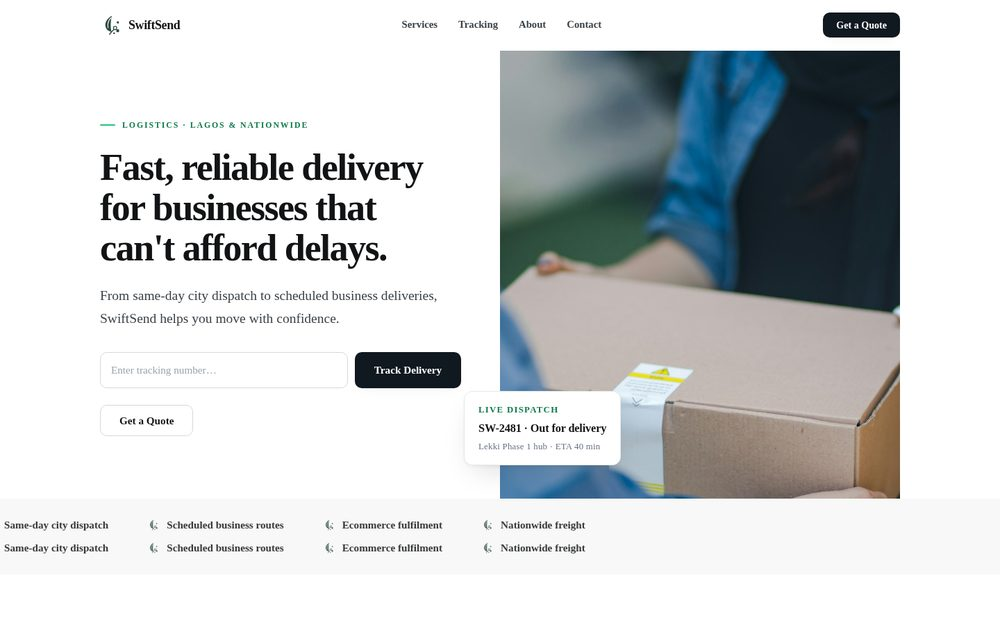
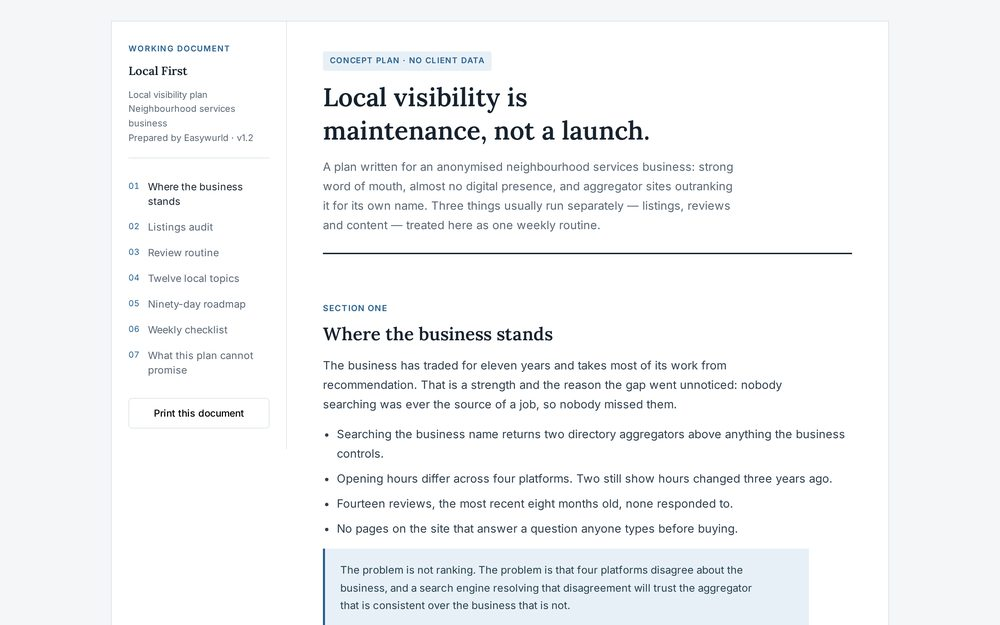
Self-host Local First as a printable working document

diff --git a/client/public/demo/local-first-visibility/index.html b/client/public/demo/local-first-visibility/index.html
@@ -1,0 +1,359 @@
+<!doctype html>
+<html lang="en">
+<head>
+<meta charset="utf-8">
+<meta name="viewport" content="width=device-width,initial-scale=1">
+<title>Local First — a 90-day local visibility plan for a neighbourhood business</title>
+<meta name="description" content="A working document: listings audit, review routine, twelve local content topics and a weekly checklist for a business that is invisible in local search. Concept plan by Easywurld.">
+<meta property="og:title" content="Local First — local visibility plan"><meta property="og:type" content="website">
+<link rel="preconnect" href="https://fonts.googleapis.com"><link rel="preconnect" href="https://fonts.gstatic.com" crossorigin>
+<link href="https://fonts.googleapis.com/css2?family=Lora:wght@500;600&family=Inter:wght@400;500;600&display=swap" rel="stylesheet">
+<style>
+:root{--bg:#F4F6F8;--pap:#FFFFFF;--ink:#16222E;--mu:#5B6875;--blu:#245F8F;--bl:#E8F0F7;--line:#DCE3E9;--ok:#226B4A;--okb:#E2F1E9;--bad:#8E3B2A;--badb:#F8E7E3;--warn:#8A5B12;--warnb:#FAEFDC}
+*{box-sizing:border-box}
+html{scroll-behavior:smooth}
+body{margin:0;background:var(--bg);color:var(--ink);font:400 16.5px/1.7 'Inter',system-ui,sans-serif;-webkit-font-smoothing:antialiased}
+a{color:var(--blu)}
+h1,h2,h3,h4{font-family:'Lora',Georgia,serif;font-weight:600;line-height:1.3;margin:0}
+:where(a,button,input,select,summary,[tabindex]):focus-visible{outline:2px solid var(--blu);outline-offset:3px}
+.skip{position:absolute;left:-9999px;background:var(--ink);color:#fff;padding:12px 18px;z-index:300}
+.skip:focus{left:8px;top:8px}
+
+/* document shell */
+.doc{max-width:1120px;margin:30px auto 0;background:var(--pap);border:1px solid var(--line);display:grid;grid-template-columns:252px 1fr}
+@media(max-width:900px){.doc{grid-template-columns:1fr;margin-top:0;border-left:0;border-right:0}}
+
+/* sidebar */
+.side{border-right:1px solid var(--line);padding:30px 24px;position:sticky;top:0;align-self:start;max-height:100vh;overflow-y:auto}
+@media(max-width:900px){.side{position:static;max-height:none;border-right:0;border-bottom:1px solid var(--line)}}
+.docid{font-size:11.5px;letter-spacing:.1em;text-transform:uppercase;color:var(--blu);font-weight:600}
+.side h2{font-size:17px;margin:10px 0 4px}
+.side .meta{font-size:13px;color:var(--mu);line-height:1.6;margin-bottom:22px;padding-bottom:18px;border-bottom:1px solid var(--line)}
+.toc{list-style:none;margin:0;padding:0;counter-reset:t}
+.toc li{counter-increment:t}
+.toc a{display:block;padding:8px 0 8px 28px;position:relative;font-size:14.5px;text-decoration:none;color:var(--mu);line-height:1.45}
+.toc a:before{content:counter(t,decimal-leading-zero);position:absolute;left:0;font-size:12px;color:var(--blu);font-variant-numeric:tabular-nums;top:9px}
+.toc a:hover,.toc a.on{color:var(--ink)}
+.prt{margin-top:22px;width:100%;min-height:44px;border:1px solid var(--line);background:var(--pap);border-radius:5px;font:500 14px 'Inter',sans-serif;cursor:pointer}
+.prt:hover{border-color:var(--blu);color:var(--blu)}
+
+/* main */
+.body{padding:40px 52px 60px;min-width:0}
+@media(max-width:900px){.body{padding:30px 24px 44px}}
+.title{padding-bottom:26px;border-bottom:2px solid var(--ink);margin-bottom:34px}
+.title h1{font-size:clamp(27px,3.6vw,37px);max-width:21ch}
+.title p{color:var(--mu);margin:14px 0 0;max-width:60ch}
+.badge{display:inline-block;background:var(--bl);color:var(--blu);font-size:11.5px;letter-spacing:.08em;text-transform:uppercase;font-weight:600;padding:4px 10px;border-radius:3px;margin-bottom:14px}
+
+sect,section{display:block}
+section{padding:34px 0;border-bottom:1px solid var(--line)}
+section:last-of-type{border-bottom:0}
+.sn{font-size:12px;letter-spacing:.09em;text-transform:uppercase;color:var(--blu);font-weight:600;margin-bottom:10px}
+section h2{font-size:clamp(21px,2.5vw,26px);margin-bottom:14px}
+section h3{font-size:17.5px;margin:26px 0 10px}
+section p{margin:0 0 15px;max-width:68ch;color:#30404E}
+section p.m{color:var(--mu)}
+ul.plain{margin:0 0 15px;padding-left:20px;color:#30404E}
+ul.plain li{margin-bottom:8px}
+
+/* audit table */
+.tw{overflow-x:auto;border:1px solid var(--line);margin:6px 0 10px}
+table{border-collapse:collapse;width:100%;min-width:600px;font-size:14.5px}
+th,td{text-align:left;padding:12px 15px;border-bottom:1px solid #EDF1F4;vertical-align:top}
+th{font-size:11.5px;letter-spacing:.06em;text-transform:uppercase;color:var(--mu);background:#F8FAFB;font-weight:600}
+tr:last-child td{border-bottom:0}
+.pill{display:inline-block;padding:3px 9px;border-radius:3px;font-size:12.5px;font-weight:600;white-space:nowrap}
+.pill.bad{background:var(--badb);color:var(--bad)}
+.pill.warn{background:var(--warnb);color:var(--warn)}
+.pill.ok{background:var(--okb);color:var(--ok)}
+.fixb{min-height:34px;padding:0 12px;border:1px solid var(--line);background:var(--pap);border-radius:4px;font:500 13px 'Inter',sans-serif;cursor:pointer;white-space:nowrap}
+.fixb:hover{border-color:var(--blu);color:var(--blu)}
+.fixb[disabled]{opacity:.4;cursor:default}
+.prog{display:flex;align-items:center;gap:12px;margin:14px 0 4px;font-size:14px;color:var(--mu);flex-wrap:wrap}
+.pbar{flex:1;min-width:160px;height:7px;background:#E7ECF0;border-radius:4px;overflow:hidden}
+.pbar i{display:block;height:100%;width:0;background:var(--blu);transition:width .4s ease}
+
+/* roadmap */
+.rm{border:1px solid var(--line)}
+.rmi{border-bottom:1px solid var(--line)}
+.rmi:last-child{border-bottom:0}
+.rmh{width:100%;text-align:left;background:var(--pap);border:0;padding:16px 18px;display:flex;align-items:center;gap:14px;cursor:pointer;min-height:56px;font-family:'Inter',sans-serif}
+.rmh:hover{background:#F8FAFB}
+.rmh .ph{font-family:'Lora',serif;font-size:16.5px;font-weight:600}
+.rmh .dr{font-size:13px;color:var(--mu);margin-left:auto;padding-right:8px}
+.rmh .ch{width:11px;height:11px;border-right:2px solid var(--blu);border-bottom:2px solid var(--blu);transform:rotate(45deg);transition:transform .2s;flex:0 0 auto;margin-top:-4px}
+.rmh[aria-expanded="true"] .ch{transform:rotate(-135deg);margin-top:3px}
+.rmb{padding:2px 18px 20px;display:none}
+.rmb.open{display:block}
+.rmb ol{margin:0;padding-left:20px;color:#30404E}
+.rmb li{margin-bottom:9px;font-size:15px}
+.rmb .own{display:inline-block;margin-left:6px;font-size:12px;color:var(--mu);background:#F1F5F8;padding:1px 7px;border-radius:3px}
+
+/* keyword map */
+.kw{border:1px solid var(--line);overflow-x:auto}
+.kwrow{display:grid;grid-template-columns:1.6fr 1fr 1.4fr;gap:0;min-width:560px}
+.kwrow>div{padding:12px 15px;border-bottom:1px solid #EDF1F4;font-size:14.5px}
+.kwrow.h>div{background:#F8FAFB;font-size:11.5px;letter-spacing:.06em;text-transform:uppercase;color:var(--mu);font-weight:600}
+.kwrow>div:nth-child(2),.kwrow>div:nth-child(3){color:var(--mu)}
+.kwrow:last-child>div{border-bottom:0}
+
+/* checklist */
+.chk{border:1px solid var(--line);padding:6px 20px 16px;background:#FCFDFE}
+.chk label{display:flex;gap:12px;align-items:flex-start;padding:12px 0;border-bottom:1px solid #EDF1F4;font-size:15px;cursor:pointer;min-height:44px}
+.chk label:last-child{border-bottom:0}
+.chk input{width:20px;height:20px;margin-top:2px;flex:0 0 auto;accent-color:var(--blu)}
+.chk small{display:block;color:var(--mu);font-size:13px;margin-top:2px}
+.chk input:checked+span{color:var(--mu);text-decoration:line-through}
+.dn{font-size:14px;color:var(--mu);padding-top:12px}
+
+.callout{background:var(--bl);border-left:3px solid var(--blu);padding:18px 22px;margin:4px 0 16px;max-width:70ch}
+.callout p{margin:0;font-size:15px;color:#24404F}
+.honest{border:1px solid var(--line);background:#FBFCFD;padding:22px 24px;max-width:72ch}
+.honest p{margin:0 0 12px}
+.honest p:last-child{margin:0}
+
+.endcta{padding:34px 0 0}
+.btn{display:inline-flex;align-items:center;min-height:46px;padding:0 22px;border-radius:5px;text-decoration:none;font-size:15px;font-weight:500;border:1px solid var(--blu);margin:0 10px 10px 0}
+.btn.p{background:var(--blu);color:#fff}
+.btn.s{background:transparent;color:var(--blu)}
+
+.note{background:var(--ink);color:#A8BAC8;font-size:13.5px;line-height:1.65;padding:18px 24px;text-align:center;margin-top:30px}
+.note a{color:#fff}
+@media(prefers-reduced-motion:reduce){*{animation:none!important;transition:none!important}}
+@media print{
+  body{background:#fff}
+  .side,.prt,.note,.endcta{display:none}
+  .doc{grid-template-columns:1fr;border:0;margin:0;max-width:none}
+  .body{padding:0}
+  section{page-break-inside:avoid}
+  .rmb{display:block!important}
+}
+</style>
+</head>
+<body>
+<a class="skip" href="#body">Skip to the document</a>
+
+<div class="doc">
+  <aside class="side">
+    <div class="docid">Working document</div>
+    <h2>Local First</h2>
+    <p class="meta">Local visibility plan<br>Neighbourhood services business<br>Prepared by Easywurld · v1.2</p>
+    <nav aria-label="Contents"><ol class="toc" id="toc">
+      <li><a href="#s1">Where the business stands</a></li>
+      <li><a href="#s2">Listings audit</a></li>
+      <li><a href="#s3">Review routine</a></li>
+      <li><a href="#s4">Twelve local topics</a></li>
+      <li><a href="#s5">Ninety-day roadmap</a></li>
+      <li><a href="#s6">Weekly checklist</a></li>
+      <li><a href="#s7">What this plan cannot promise</a></li>
+    </ol></nav>
+    <button class="prt" id="prt">Print this document</button>
+  </aside>
+
+  <div class="body" id="body">
+    <div class="title">
+      <span class="badge">Concept plan · no client data</span>
+      <h1>Local visibility is maintenance, not a launch.</h1>
+      <p>A plan written for an anonymised neighbourhood services business: strong word of mouth, almost no digital presence, and aggregator sites outranking it for its own name. Three things usually run separately — listings, reviews and content — treated here as one weekly routine.</p>
+    </div>
+
+    <section id="s1">
+      <div class="sn">Section one</div>
+      <h2>Where the business stands</h2>
+      <p>The business has traded for eleven years and takes most of its work from recommendation. That is a strength and the reason the gap went unnoticed: nobody searching was ever the source of a job, so nobody missed them.</p>
+      <ul class="plain">
+        <li>Searching the business name returns two directory aggregators above anything the business controls.</li>
+        <li>Opening hours differ across four platforms. Two still show hours changed three years ago.</li>
+        <li>Fourteen reviews, the most recent eight months old, none responded to.</li>
+        <li>No pages on the site that answer a question anyone types before buying.</li>
+      </ul>
+      <div class="callout"><p>The problem is not ranking. The problem is that four platforms disagree about the business, and a search engine resolving that disagreement will trust the aggregator that is consistent over the business that is not.</p></div>
+    </section>
+
+    <section id="s2">
+      <div class="sn">Section two</div>
+      <h2>Listings audit</h2>
+      <p class="m">Every platform where the business appears, what is wrong, and who fixes it. Mark an item corrected to see the consistency score move — this is a working tracker, not a report.</p>
+      <div class="tw"><table>
+        <thead><tr><th>Platform</th><th>Problem found</th><th>State</th><th>Action</th></tr></thead>
+        <tbody id="audit">
+          <tr data-row><td>Business profile</td><td>Closing time wrong on Saturdays. No category set. No photos since 2023.</td><td><span class="pill bad">Incorrect</span></td><td><button class="fixb">Mark corrected</button></td></tr>
+          <tr data-row><td>Facebook page</td><td>Old phone number. Address missing the unit number.</td><td><span class="pill bad">Incorrect</span></td><td><button class="fixb">Mark corrected</button></td></tr>
+          <tr data-row><td>Directory A</td><td>Duplicate entry created by a customer in 2019, still live.</td><td><span class="pill warn">Duplicate</span></td><td><button class="fixb">Mark corrected</button></td></tr>
+          <tr data-row><td>Directory B</td><td>Correct details but no description and no link to the site.</td><td><span class="pill warn">Thin</span></td><td><button class="fixb">Mark corrected</button></td></tr>
+          <tr data-row><td>Own website footer</td><td>Hours written as an image, so nothing can read them.</td><td><span class="pill bad">Incorrect</span></td><td><button class="fixb">Mark corrected</button></td></tr>
+        </tbody>
+      </table></div>
+      <div class="prog">
+        <span>Consistency</span>
+        <span class="pbar"><i id="pfill"></i></span>
+        <span id="ptxt">0 of 5 corrected</span>
+      </div>
+      <p class="m">Name, address, phone and hours must read identically everywhere, down to the abbreviation of the street type. That is the whole standard.</p>
+    </section>
+
+    <section id="s3">
+      <div class="sn">Section three</div>
+      <h2>Review routine</h2>
+      <p>Reviews stopped because asking was left to whoever remembered. The fix is to attach the request to an event that already happens: the job being finished and paid for.</p>
+      <h3>The loop</h3>
+      <ol class="plain">
+        <li>Job completed and invoice settled.</li>
+        <li>Same day, a short message: one sentence of thanks, one direct link, no form.</li>
+        <li>Every review answered within three working days, including the poor ones.</li>
+        <li>One sentence from a recent review added to the site each month.</li>
+      </ol>
+      <div class="callout"><p>Target the rate, not the total. Roughly one in six people asked will write something, so a business completing twelve jobs a week should expect about two reviews a week — not forty next Tuesday.</p></div>
+      <h3>Answering a bad one</h3>
+      <p>Acknowledge the specific thing, say what changed, offer to continue off the platform. No defence of the company and no apology template. Future customers read the reply more carefully than the complaint.</p>
+    </section>
+
+    <section id="s4">
+      <div class="sn">Section four</div>
+      <h2>Twelve local topics</h2>
+      <p class="m">Each one is a question a person in the area types before they buy, with the intent behind it noted. One page each, published at one a week for twelve weeks.</p>
+      <div class="kw">
+        <div class="kwrow h"><div>Topic / page</div><div>Intent</div><div>Why this one</div></div>
+        <div class="kwrow"><div>What a call-out costs in this area</div><div>Commercial</div><div>Price is the first question and nobody local publishes it</div></div>
+        <div class="kwrow"><div>Emergency or can it wait until Monday</div><div>Informational</div><div>Captures the panic search at 9pm</div></div>
+        <div class="kwrow"><div>Which streets we cover same-day</div><div>Local</div><div>Names the actual neighbourhoods, which aggregators cannot</div></div>
+        <div class="kwrow"><div>How to describe the fault on the phone</div><div>Informational</div><div>Shortens the call and demonstrates competence</div></div>
+        <div class="kwrow"><div>What we check before quoting</div><div>Trust</div><div>Answers the fear of a quote changing on the day</div></div>
+        <div class="kwrow"><div>Older properties in the area and what goes wrong</div><div>Local</div><div>Specific to the housing stock nearby</div></div>
+        <div class="kwrow"><div>Landlord obligations, plainly</div><div>Commercial</div><div>Reaches a repeat-booking audience</div></div>
+        <div class="kwrow"><div>What we will not take on</div><div>Trust</div><div>Saves both sides a wasted visit</div></div>
+        <div class="kwrow"><div>Parking and access on the narrow streets</div><div>Local</div><div>Nothing else on the web answers it</div></div>
+        <div class="kwrow"><div>Signs you are being overcharged</div><div>Informational</div><div>High share rate within local groups</div></div>
+        <div class="kwrow"><div>Seasonal: what fails first in the rains</div><div>Seasonal</div><div>Publish six weeks ahead of the season</div></div>
+        <div class="kwrow"><div>How soon we can usually get to you</div><div>Commercial</div><div>Honest answer beats "fast response"</div></div>
+      </div>
+    </section>
+
+    <section id="s5">
+      <div class="sn">Section five</div>
+      <h2>Ninety-day roadmap</h2>
+      <p class="m">Three phases. Open each one for the tasks and who owns them. Nothing in month one requires writing anything.</p>
+      <div class="rm" id="rm">
+        <div class="rmi">
+          <button class="rmh" aria-expanded="true" aria-controls="p1"><span class="ch"></span><span class="ph">Days 1–30 · Correct what exists</span><span class="dr">6 tasks</span></button>
+          <div class="rmb open" id="p1"><ol>
+            <li>Claim or recover every listing found in the audit.<span class="own">Owner</span></li>
+            <li>Write one canonical set of details and apply it everywhere.<span class="own">Easywurld</span></li>
+            <li>Remove the duplicate directory entry.<span class="own">Easywurld</span></li>
+            <li>Replace the image of opening hours with real text.<span class="own">Easywurld</span></li>
+            <li>Add twelve current photographs of actual work.<span class="own">Owner</span></li>
+            <li>Reply to all fourteen existing reviews.<span class="own">Owner</span></li>
+          </ol></div>
+        </div>
+        <div class="rmi">
+          <button class="rmh" aria-expanded="false" aria-controls="p2"><span class="ch"></span><span class="ph">Days 31–60 · Start the loops</span><span class="dr">5 tasks</span></button>
+          <div class="rmb" id="p2"><ol>
+            <li>Attach the review request to job completion and test it on ten jobs.<span class="own">Owner</span></li>
+            <li>Publish the first four topic pages.<span class="own">Easywurld</span></li>
+            <li>Add a weekly post to the business profile — one photo, two sentences.<span class="own">Owner</span></li>
+            <li>Record the questions customers ask on the phone for later topics.<span class="own">Owner</span></li>
+            <li>Check the listing details have not reverted.<span class="own">Easywurld</span></li>
+          </ol></div>
+        </div>
+        <div class="rmi">
+          <button class="rmh" aria-expanded="false" aria-controls="p3"><span class="ch"></span><span class="ph">Days 61–90 · Make it routine</span><span class="dr">5 tasks</span></button>
+          <div class="rmb" id="p3"><ol>
+            <li>Publish topic pages five to twelve.<span class="own">Easywurld</span></li>
+            <li>Hand the weekly checklist to whoever will actually run it.<span class="own">Both</span></li>
+            <li>Review which pages brought calls and write two more like them.<span class="own">Easywurld</span></li>
+            <li>Set a standing monthly reminder to re-check listings.<span class="own">Owner</span></li>
+            <li>Decide what happens in month four, in writing.<span class="own">Both</span></li>
+          </ol></div>
+        </div>
+      </div>
+    </section>
+
+    <section id="s6">
+      <div class="sn">Section six</div>
+      <h2>Weekly checklist</h2>
+      <p class="m">Twenty minutes, once a week, by someone who is not a marketer. If a task needs explaining it does not belong on this list. Tick them off — this resets when the page reloads.</p>
+      <div class="chk" id="chk">
+        <label><input type="checkbox"><span>Answer every new review<small>Three working days maximum, including the poor ones</small></span></label>
+        <label><input type="checkbox"><span>Post once to the business profile<small>One photograph of real work and two sentences</small></span></label>
+        <label><input type="checkbox"><span>Ask the week's completed jobs for a review<small>Same message every time, sent the day the invoice clears</small></span></label>
+        <label><input type="checkbox"><span>Check the business profile for edits you did not make<small>Members of the public can suggest changes and they are sometimes accepted</small></span></label>
+        <label><input type="checkbox"><span>Write down one question a customer asked<small>This is where next quarter's pages come from</small></span></label>
+      </div>
+      <p class="dn" id="dn">0 of 5 done this week.</p>
+    </section>
+
+    <section id="s7">
+      <div class="sn">Section seven</div>
+      <h2>What this plan cannot promise</h2>
+      <div class="honest">
+        <p>This is a concept plan written for a portfolio. It has not been executed, so there is no ranking data, no call volume and no enquiry figure attached to it. Any number on this page describes the plan itself — tasks, weeks, topics — not a result.</p>
+        <p>Local search position depends on distance from the searcher, competitor activity and platform changes that nobody controls. A business three streets further out can do everything here and still sit below a closer competitor doing less.</p>
+        <p>The honest expectation is that correcting listings fixes a correctness problem within weeks, reviews compound over months, and content takes a quarter before it is worth judging. A plan that promises faster is guessing.</p>
+      </div>
+      <div class="endcta">
+        <a class="btn p" href="https://wa.me/2349050690837">Talk to Easywurld on WhatsApp</a>
+        <a class="btn s" href="https://website-builder-portfolio.vercel.app/contact">Start a project</a>
+      </div>
+    </section>
+  </div>
+</div>
+
+<div class="note"><img src="/brand/mark-light.png" alt="Easywurld" width="16" height="16" style="display:inline-block;height:16px;width:16px;vertical-align:-3px;margin-right:6px">Concept plan by <a href="https://website-builder-portfolio.vercel.app/projects/local-first-visibility">Easywurld</a> — the business described is anonymised and composite, and no figures here describe a real company. It demonstrates a local visibility plan delivered as a working, printable document rather than a dashboard.</div>
+
+<script>
+(function(){
+/* audit tracker */
+var rows=document.querySelectorAll('#audit tr[data-row]');
+var fill=document.getElementById('pfill'), ptxt=document.getElementById('ptxt');
+var done=0;
+function upd(){
+  fill.style.width=Math.round(done/rows.length*100)+'%';
+  ptxt.textContent=done+' of '+rows.length+' corrected';
+}
+rows.forEach(function(r){
+  r.querySelector('.fixb').addEventListener('click',function(){
+    r.querySelector('.pill').className='pill ok';
+    r.querySelector('.pill').textContent='Corrected';
+    this.disabled=true;this.textContent='Done';
+    done++;upd();
+  });
+});
+upd();
+
+/* roadmap accordion */
+document.querySelectorAll('.rmh').forEach(function(h){
+  h.addEventListener('click',function(){
+    var open=h.getAttribute('aria-expanded')==='true';
+    h.setAttribute('aria-expanded',String(!open));
+    document.getElementById(h.getAttribute('aria-controls')).classList.toggle('open',!open);
+  });
+});
+
+/* checklist */
+var boxes=document.querySelectorAll('#chk input');
+var dn=document.getElementById('dn');
+boxes.forEach(function(b){
+  b.addEventListener('change',function(){
+    var n=0;boxes.forEach(function(x){if(x.checked)n++});
+    dn.textContent=n+' of '+boxes.length+' done this week.'+(n===boxes.length?' That is the whole routine.':'');
+  });
+});
+
+/* toc highlight */
+var links=[].slice.call(document.querySelectorAll('.toc a'));
+var secs=links.map(function(a){return document.querySelector(a.getAttribute('href'))});
+if('IntersectionObserver' in window){
+  var io=new IntersectionObserver(function(es){
+    es.forEach(function(e){
+      if(!e.isIntersecting)return;
+      var i=secs.indexOf(e.target);
+      links.forEach(function(l,j){l.classList.toggle('on',i===j)});
+    });
+  },{rootMargin:'-20% 0px -70% 0px'});
+  secs.forEach(function(s){if(s)io.observe(s)});
+}
+
+document.getElementById('prt').onclick=function(){window.print()};
+})();
+</script>
+</body></html>

diff --git a/client/src/data/digitalMarketing.ts b/client/src/data/digitalMarketing.ts
@@ -4,7 +4,7 @@ export const digitalMarketing: Project[] = [
   {
     slug: "local-first-visibility",
     shot: "/shots/local-first-visibility.jpg",
-    liveUrl: "https://easywurld-studio-8u8s-two.vercel.app/swiftsend/",
+    liveUrl: "/demo/local-first-visibility/index.html",
     title: "Local First",
     category: "Digital Marketing",
     industry: "Local services",
@@ -32,7 +32,7 @@ export const digitalMarketing: Project[] = [
     tags: ["Local SEO", "Reviews", "Systems"],
     visual: {
       archetype: "strategy", bg: "#F4F6F8", ink: "#16222E", accent: "#2A6FA8", muted: "#6B7885",
-      head: "'Inter Tight', system-ui, sans-serif", body: "'Inter', system-ui, sans-serif", variant: 0,
+      head: "'Lora', Georgia, serif", body: "'Inter', system-ui, sans-serif", variant: 0,
       words: ["Listings", "Reviews", "Content", "Weekly"],
     },
   },
